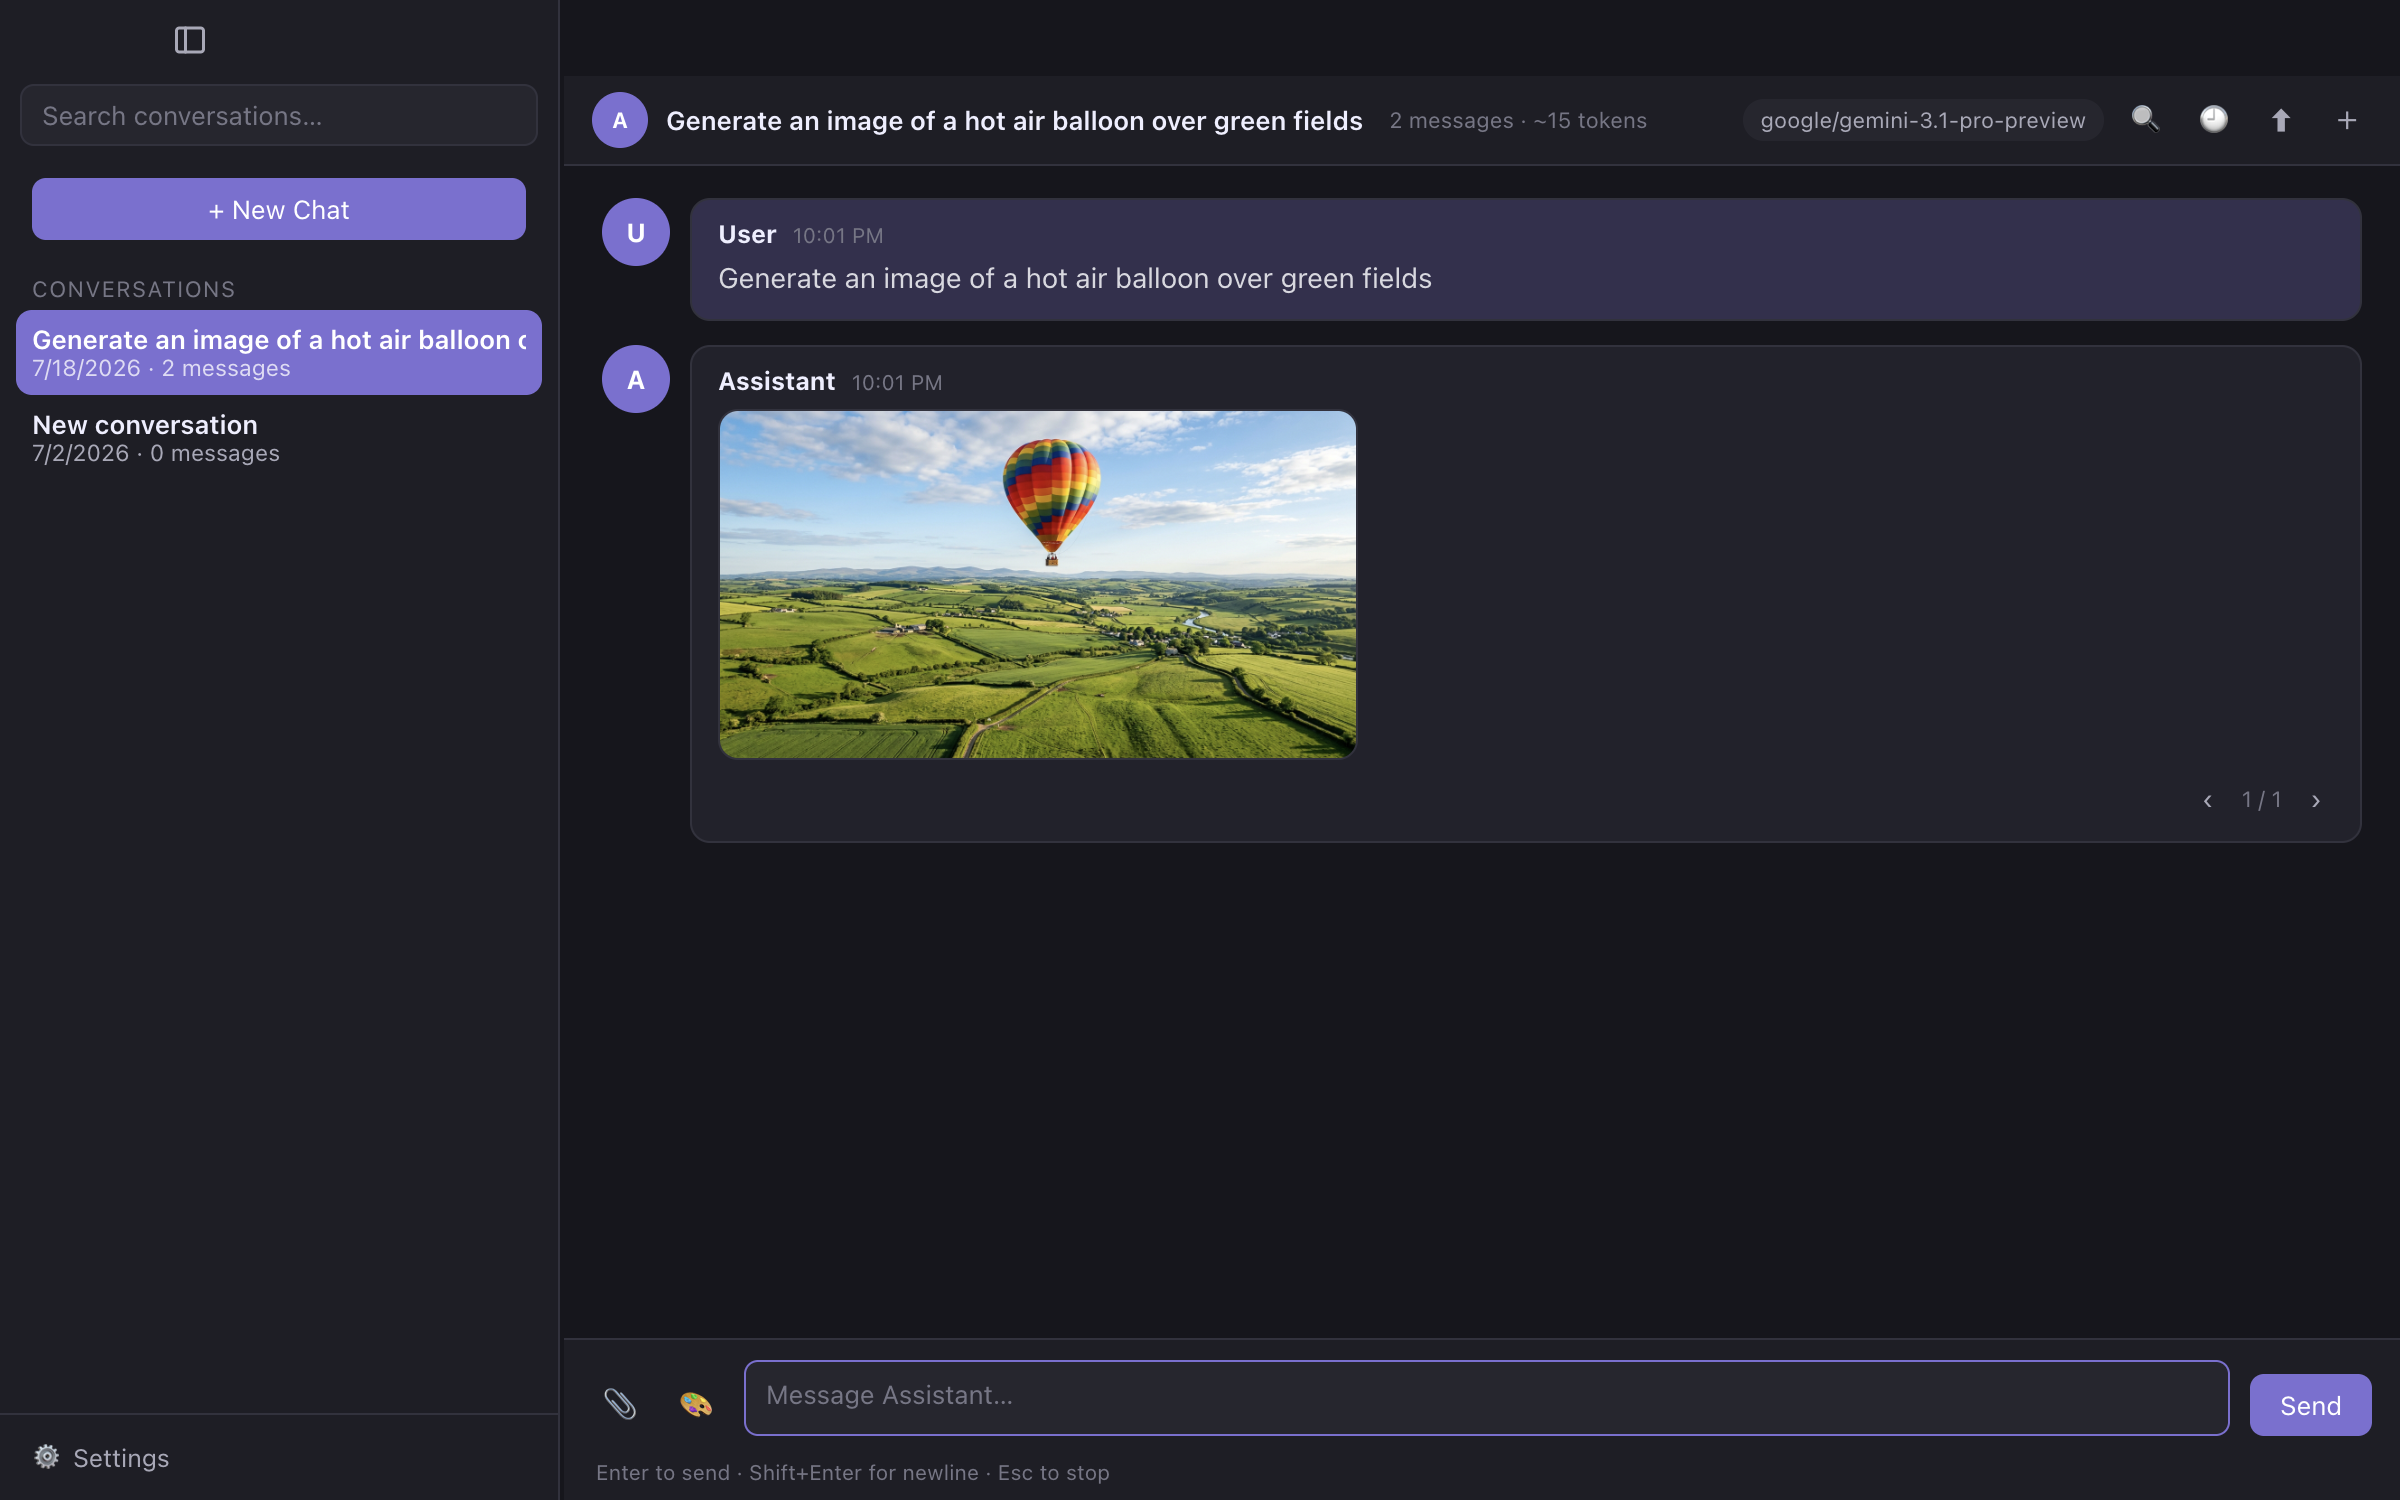
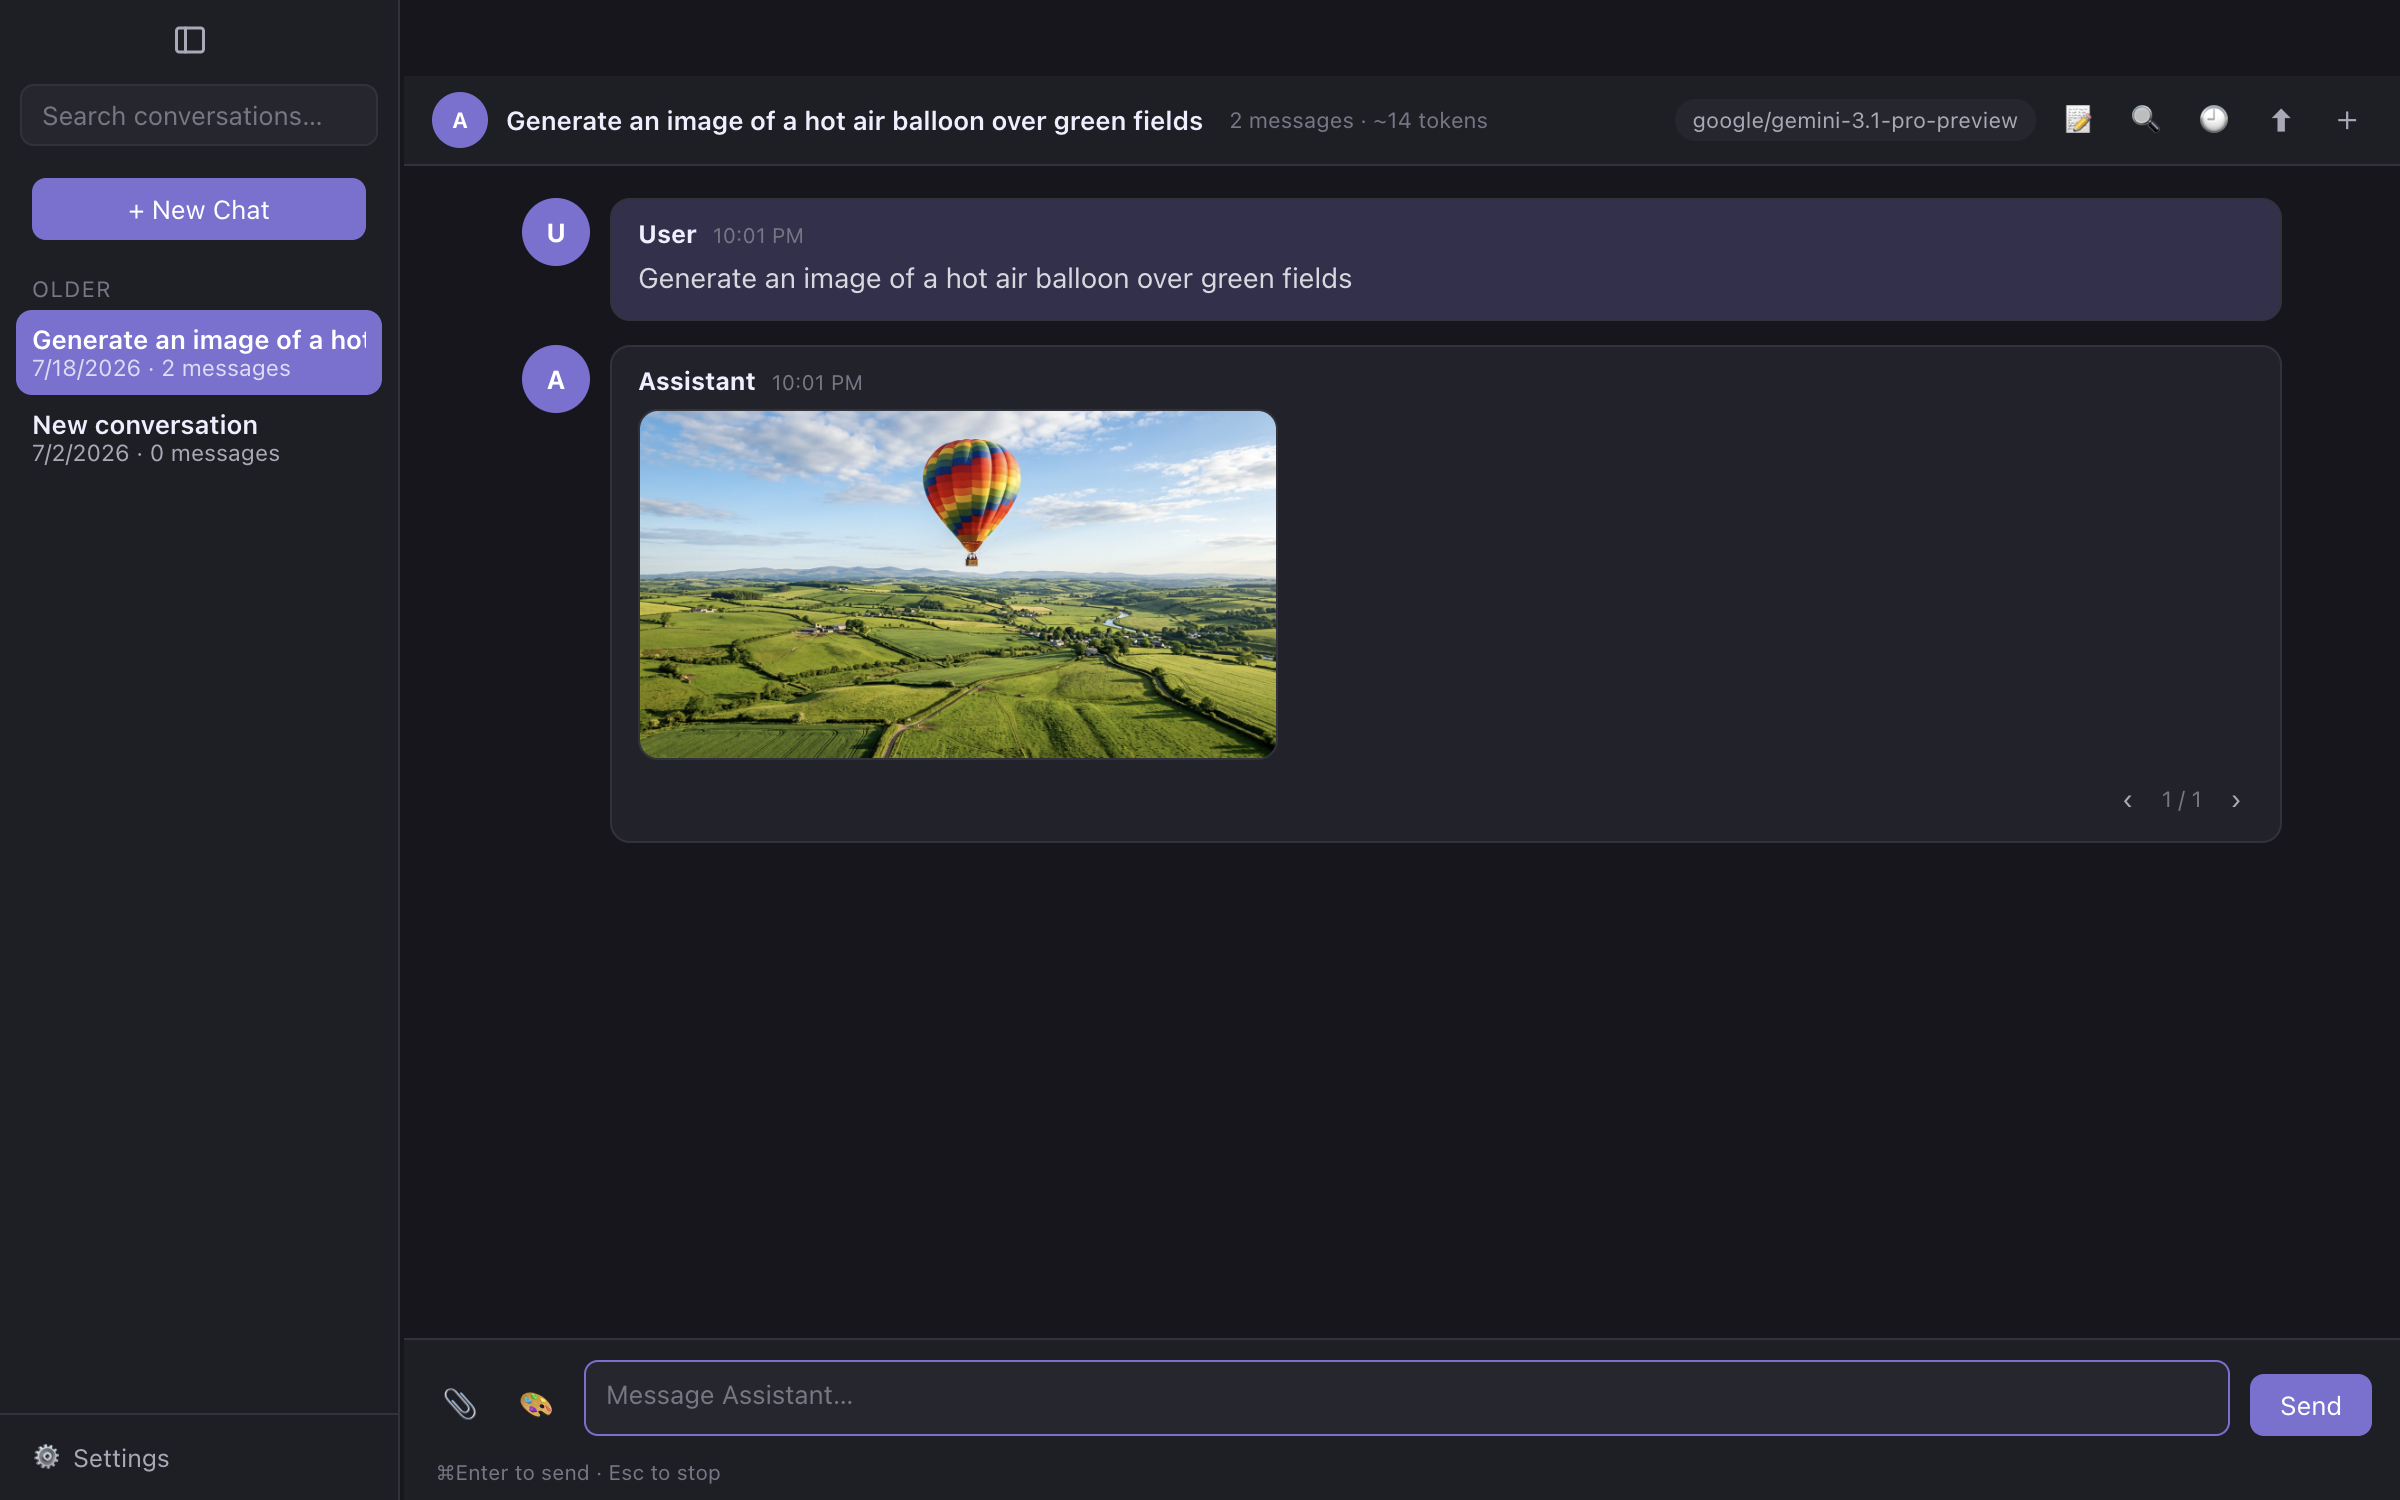
Refresh README screenshots and add FAQ, contributor tips
- Retake the light/dark screenshots on the current build (same demo
  conversation, staged against an isolated view of the data)
- Add an FAQ section for first-time users: provider choice, cost,
  privacy, offline use, migrating machines, connection troubleshooting
- Extend Contributing with good-first-contribution pointers, code
  conventions (t() strings, el() DOM, tests), and debugging tips

diff --git a/README.md b/README.md
@@ -154,6 +154,20 @@ npm start
 
 Settings → Data → **Import Data Folder**: select an existing OpenChat data folder (same layout — `characters/`, `chats/`, `worlds/`, `presets/`, `user/`) and its characters, chats, world books, presets, and personas are copied over.
 
+## FAQ
+
+**Which provider should I start with?** OpenRouter — one key gives you hundreds of models (including some free ones), a live searchable model list, and a credit-balance display. If you'd rather not use any cloud service, install [Ollama](https://ollama.ai) and chat with local models for free.
+
+**What does OpenChat cost?** The app is free and open source. Cloud providers bill you directly for what you use through your own API key; nothing goes through us.
+
+**Is my chat data private?** Everything is stored on your machine (see [Data Storage](#data-storage)). Messages are sent only to the provider you configured, and API keys are encrypted at rest where the OS supports it. See the Local-first bullet above for the two other network calls the app makes.
+
+**Can I use it offline?** Yes — with Ollama or any local OpenAI-compatible server. Cloud providers need a connection.
+
+**How do I move to a new machine?** Copy your data folder over, then Settings → Data → Import Data Folder. API keys are not part of the import (they're encrypted per-machine) — re-enter them once.
+
+**Connection problems?** Use Settings → API → Test Connection. For Ollama, make sure `ollama serve` is running. For custom servers, the base URL should be the `/v1`-style root (e.g. `http://localhost:1234/v1`).
+
 ## Keyboard Shortcuts
 
 | Shortcut | Action |
@@ -207,6 +221,8 @@ Contributions are welcome, with one ground rule up front: **pull requests are by
 2. **Want to submit code?** Open an issue first describing the change you have in mind. If it's a good fit, we'll discuss the approach there and invite you to contribute.
 3. **Before a PR**: keep changes dependency-free (plain JavaScript, no build step, no framework, no runtime dependencies), match the surrounding code style, and make sure `npm test` passes. Tests run on every pull request and on pushes to main.
 4. **Translations**: the UI is localized via plain-JS dictionaries in `src/shared/locales/` (one flat `'key': 'string'` file per language, English as the source of truth). Fixing a translation is a normal code change; proposing a new language starts with an issue. A test enforces that every locale has exactly the English key set with all `{placeholders}` intact, so `npm test` will catch mistakes.
+5. **Good first contributions**: translation fixes, bug reports with clear reproduction steps, and documentation improvements are the easiest ways to get involved — and the fastest route to a contributor invitation.
+6. **Code conventions**: user-facing text never lives in components — add a key to `src/shared/locales/en.js` (and every other locale) and reference it with `t('key')`. Build DOM through the `el()` helper in `src/renderer/js/util.js` rather than `innerHTML`. New behavior should come with a unit test in `tests/`.
 
 ### Development
 
@@ -218,6 +234,8 @@ npm test      # run the unit tests (node --test)
 ```
 
 Layout: `src/main/` is the Electron main process (LLM providers in `llm.js`, disk layer in `storage.js`, IPC surface in `ipc.js`), `src/renderer/` is the UI (views in `js/views/`, prompt assembly in `js/promptBuilder.js`), and `src/shared/` is code used by both sides (provider registry, i18n runtime and locale dictionaries, text helpers).
+
+Debugging tips: switch to Advanced mode and open Settings → Developer for a live log of every API request and response; app data (including chat JSONL you can inspect directly) lives in the user-data directory listed under [Data Storage](#data-storage); the unit tests run in about a second, so `npm test` after every change is cheap.
 
 ## License
 
